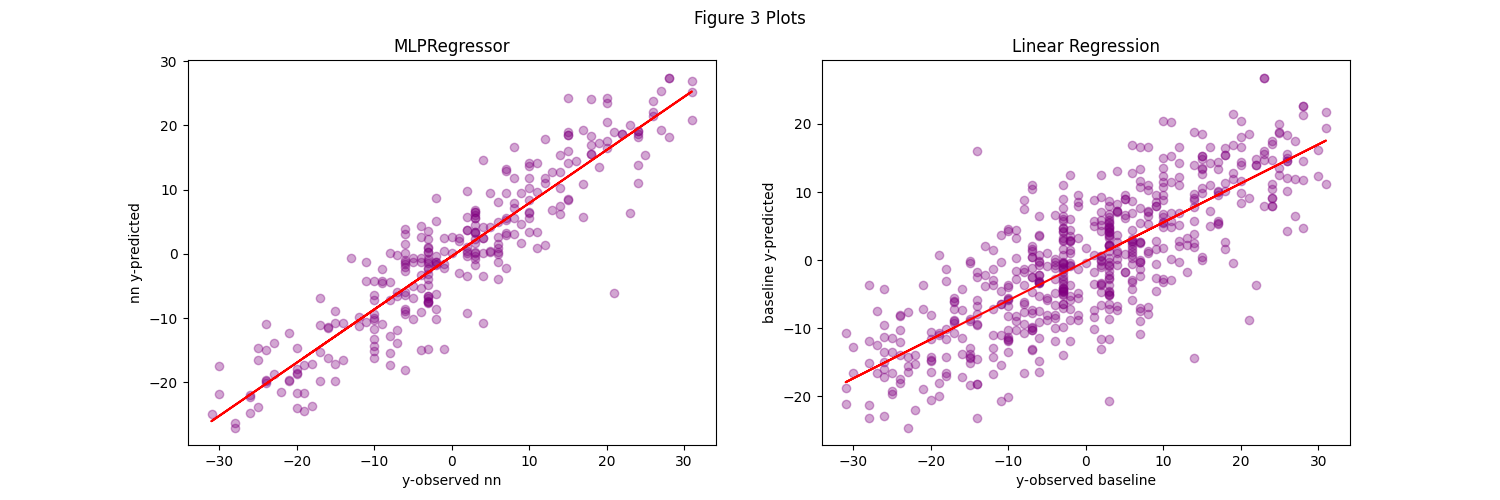
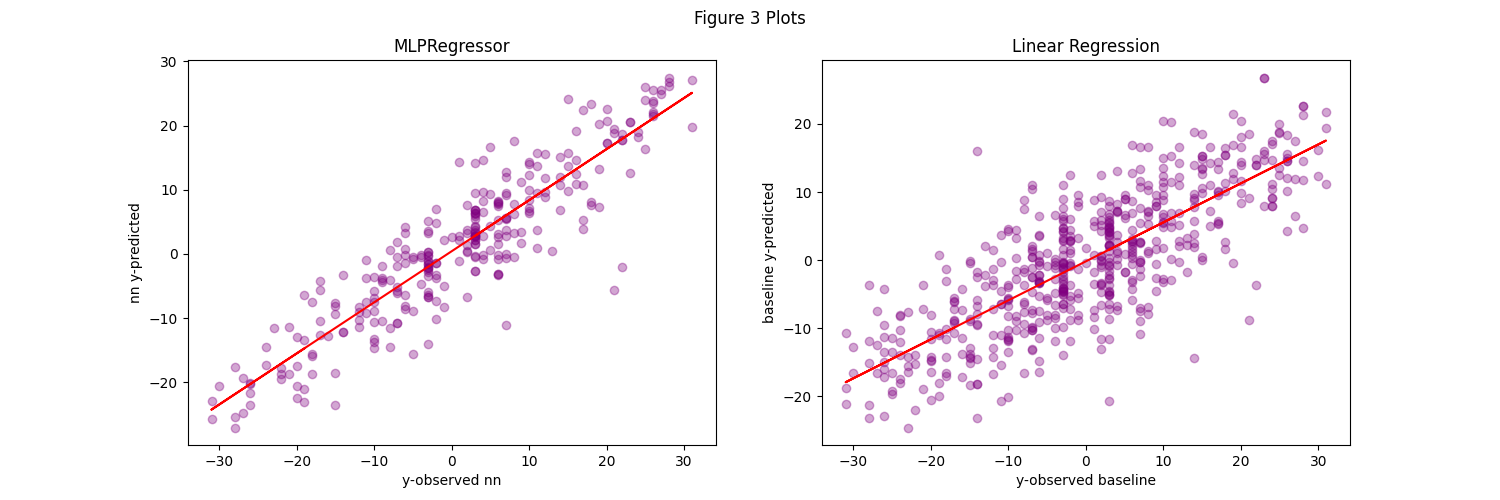
updated run.py error
next step is model evaluation plots and renaming arguments

Changed region(s): [[0.1227, 0.15, 0.4907, 0.84], [0.3987, 0.57, 0.4293, 0.6]]

diff --git a/src/model_MLP.py b/src/model_MLP.py
@@ -76,13 +76,10 @@ def importance(clf, X, y, cn):
 
 
 def train_nn(X_train, X_test, Y_train, y_test, cn):
-
-    x_train, y_test, y_train,y_valid = train_test_split(X_train, Y_train, test_size=0.2)
-
+    x_train, x_valid, y_train, y_valid = train_test_split(X_train, Y_train, test_size=0.2)
 
     model = MLPRegressor(activation="logistic", solver="adam", early_stopping=False, 
     learning_rate="adaptive", max_iter=300,alpha=0.01,hidden_layer_sizes = (32,64,64,128))
-    inverse = False
  
     model.fit(x_train, y_train)
 
@@ -95,12 +92,10 @@ def train_nn(X_train, X_test, Y_train, y_test, cn):
     # clf.fit(X_train, np.array(y_train))
     # print(clf.best_params_)
     
-
-
     print("Test Set MAE: ", np.mean(np.abs((model.predict(X_test)) - np.array(y_test))))
 
     fig = importance(
-        model, X_train, np.array(y_train), cn
+        model, x_train, np.array(y_train), cn
     )
     plt.savefig("./src/plots/Permutation_Importances.png")
 

diff --git a/run.py b/run.py
@@ -43,13 +43,9 @@ def main(targets):
     test = pd.read_csv("./src/test/test.csv")
     train = pd.read_csv("./src/final_data/train.csv")
 
-    nn = False
-    if nn:
-        X_train, X_test, y_train, y_test, cn = get_data_ready_for_nn(train, test)
-        mdl = train_nn(X_train, X_test, y_train, y_test, cn)
-    else:
-        mdl = build_model(train, test)
-
+    X_train, X_test, y_train, y_test, cn = get_data_ready_for_nn(train, test)
+    prediction_mdl = train_nn(X_train, X_test, y_train, y_test, cn)
+    
     y_test_baseline, y_pred_baseline = build_model(train, test)
 
     # superbowl_pred = pd.read_csv("./src/final_data/superbowls.csv").to_numpy()
